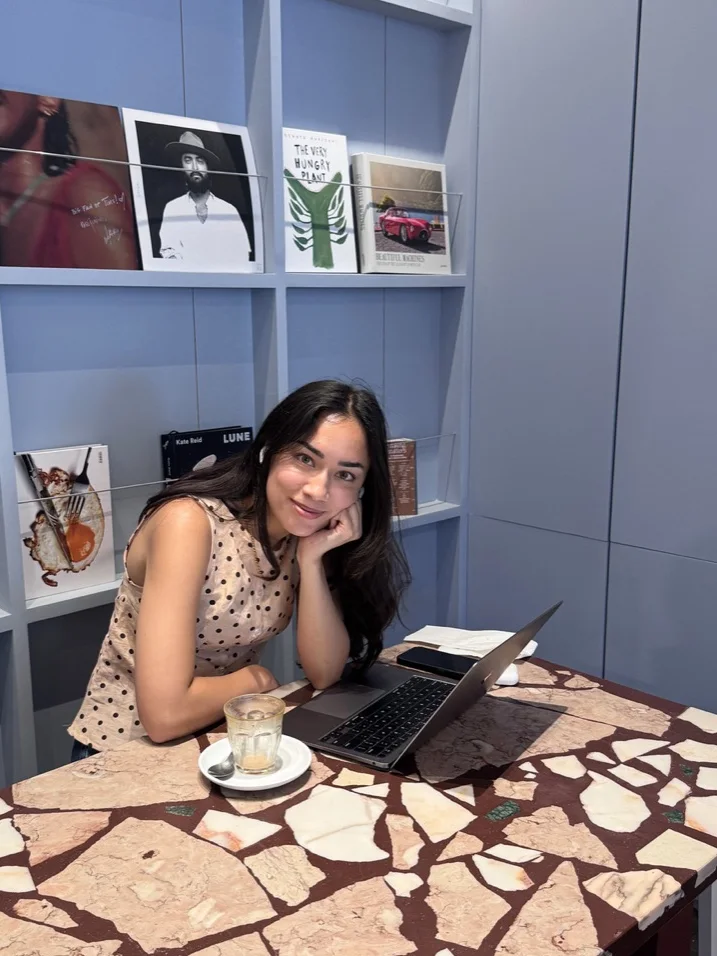
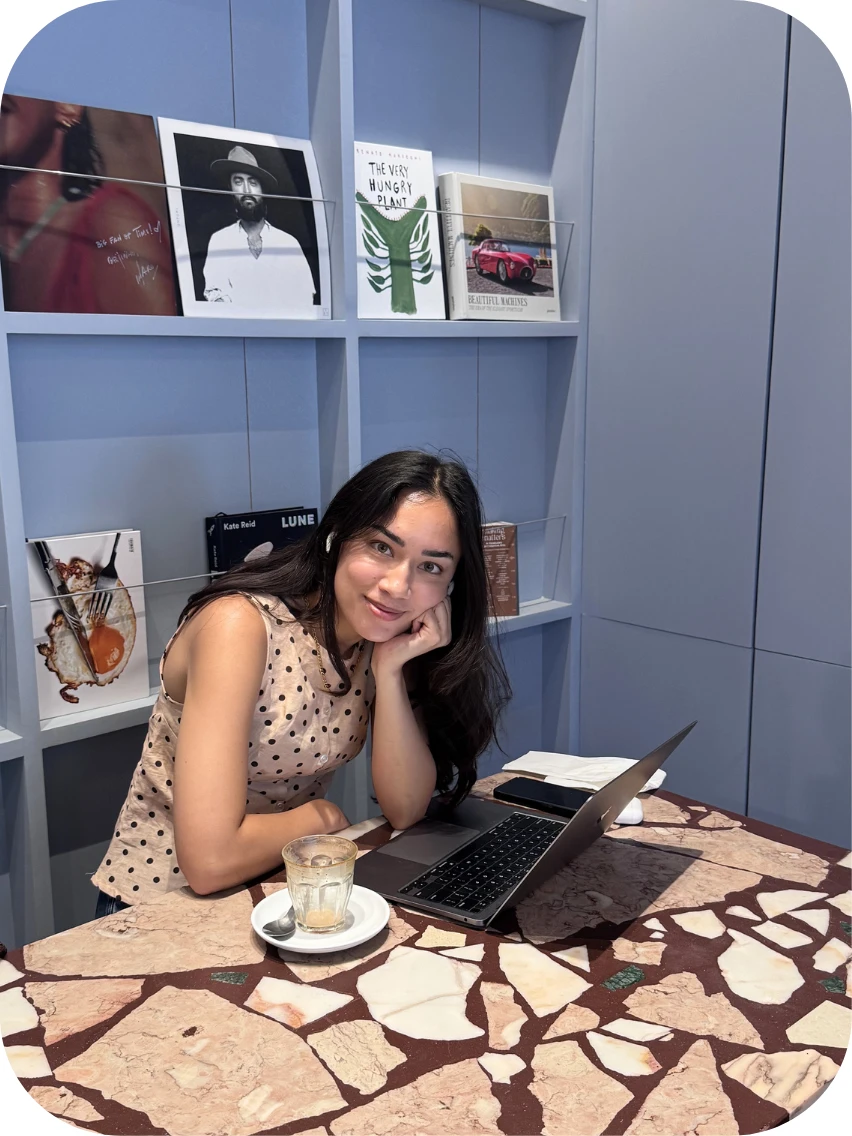
Use new About and Lisbon photos
Rounding now scales with the photo so it always covers the white
corners baked into the image files.

diff --git a/index.html b/index.html
@@ -296,7 +296,7 @@
         </div>
         <picture>
           <source srcset="images/christina-about.webp" type="image/webp">
-          <img class="about__photo" src="images/christina-about.jpg" width="665" height="887" loading="lazy" decoding="async" alt="Christina Lawson laughing, sitting on a stool">
+          <img class="about__photo" src="images/christina-about.jpg" width="900" height="1200" loading="lazy" decoding="async" alt="Christina Lawson laughing, sitting on a stool">
         </picture>
       </div>
     </section>
@@ -325,7 +325,7 @@
         </div>
         <picture>
           <source srcset="images/christina-lisbon.webp" type="image/webp">
-          <img class="contact__photo" src="images/christina-lisbon.jpg" width="717" height="956" loading="lazy" decoding="async" alt="Christina working on a laptop in a Lisbon café">
+          <img class="contact__photo" src="images/christina-lisbon.jpg" width="852" height="1136" loading="lazy" decoding="async" alt="Christina working on a laptop in a Lisbon café">
         </picture>
       </div>
     </section>

diff --git a/styles.css b/styles.css
@@ -622,7 +622,8 @@ summary:hover .toggle { background: color-mix(in srgb, currentColor 12%, transpa
   width: 100%;
   aspect-ratio: 3 / 4;
   object-fit: cover;
-  border-radius: 64px;
+  /* Scales with the photo so it always covers the white corners baked into the image files */
+  border-radius: 15% / 11.25%;
 }
 .about__photo { background: #d8dee6; }
 .stats { list-style: none; padding: 0; margin: 40px 0 0; display: grid; grid-template-columns: repeat(3, 1fr); gap: 20px; text-align: center; color: var(--blue); }
@@ -756,8 +757,6 @@ summary:hover .toggle { background: color-mix(in srgb, currentColor 12%, transpa
   .hd { border-radius: 40px; padding: 40px 26px; }
   .plan { border-radius: 40px; padding: 40px 28px 32px; }
   .stats { grid-template-columns: 1fr; gap: 28px; }
-  .about__photo,
-  .contact__photo { border-radius: 44px; }
   .footer__inner { grid-template-columns: 1fr; gap: 20px; }
   .footer__links { flex-direction: column; gap: 0; }
 }
